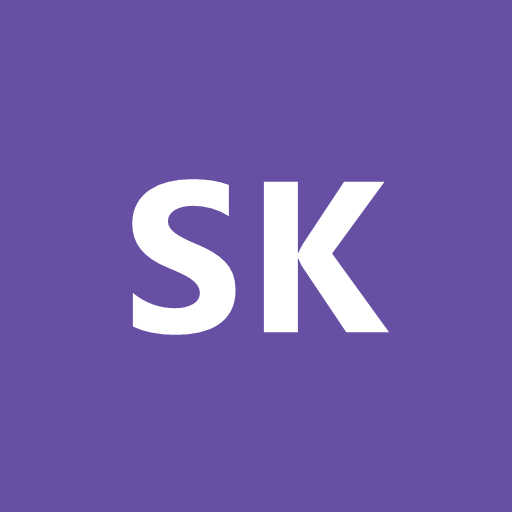
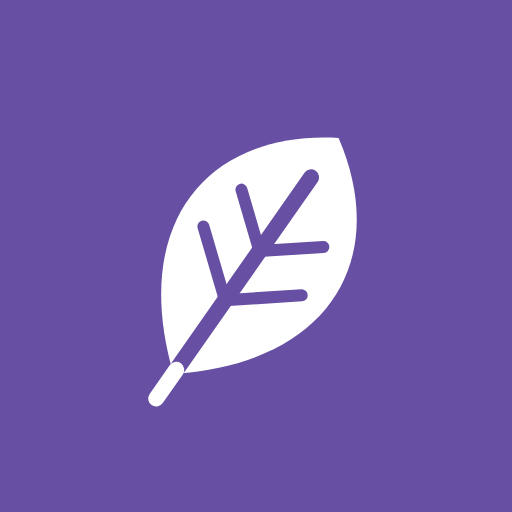
Ny ikon med symbol i stället för bokstäver
Claude-Session: https://claude.ai/code/session_01EcQQzGfsUvvo6xYobShx1L

Changed region(s): [[0.25, 0.25, 0.75, 0.8125]]

diff --git a/version.js b/version.js
@@ -1,1 +1,1 @@
-self.APP_VERSION = '0.2.57';
+self.APP_VERSION = '0.2.58';
